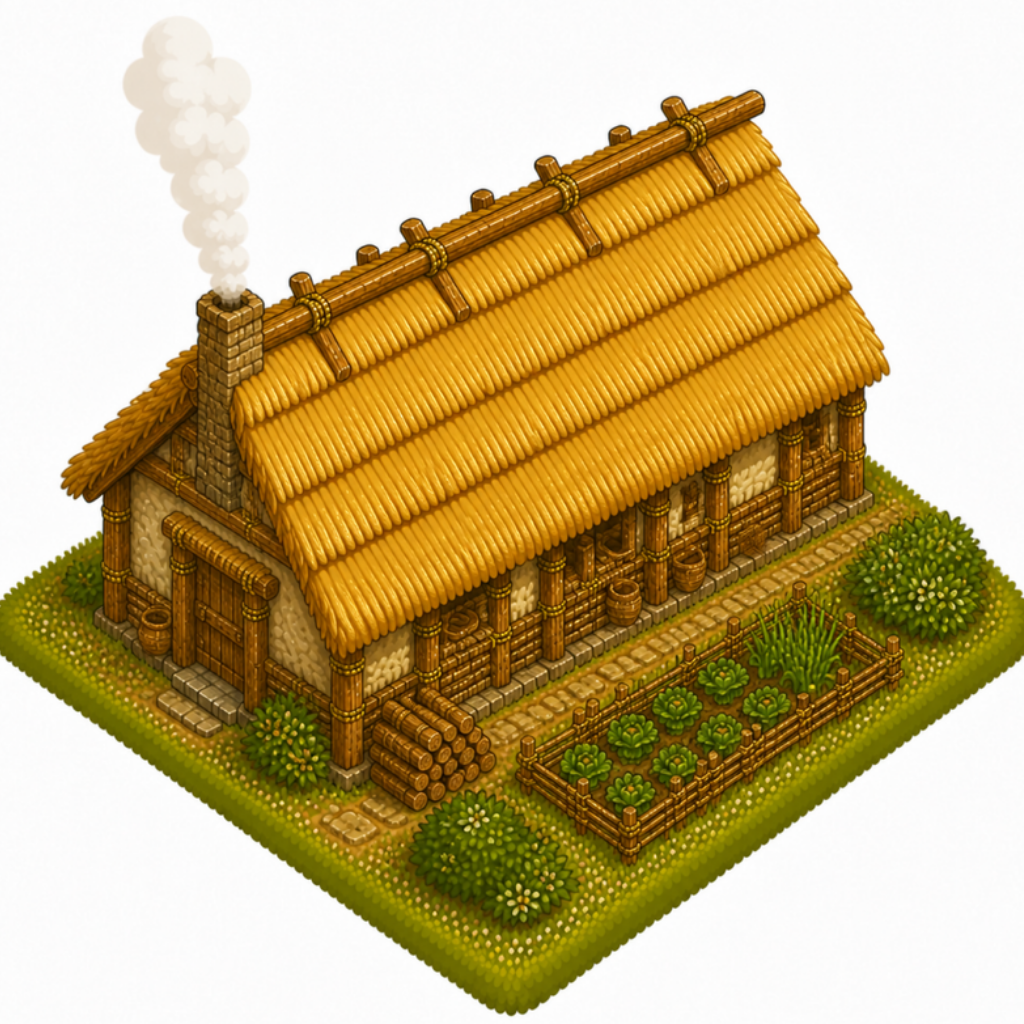
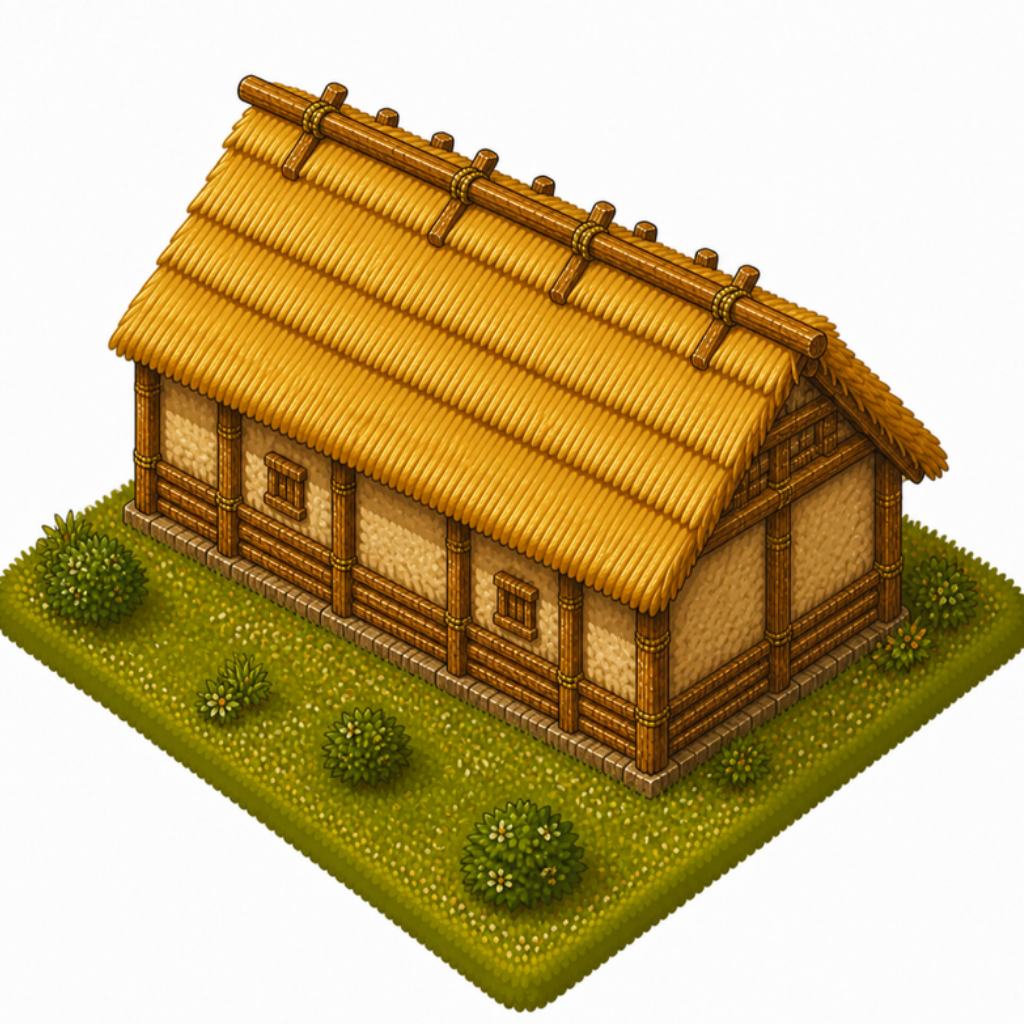
Epochia 75: echte Rückseiten für Sammlerin und Langhaus, Wunderwerk-Fragen entschieden
Claude-Session: https://claude.ai/code/session_01W1n1hiLKjnig7o8w32eGHP

diff --git a/neu/js/zeichnen.js b/neu/js/zeichnen.js
@@ -1324,7 +1324,7 @@ const EFFECTS = {
   '1-mammutjaegerlager-r2': [{ u: 0.56, v: 0.20, feuer: 0.7, rauch: 0.6, rv: 0.15 }],
   '1-ahnenplatz-r2':        [{ u: 0.50, v: 0.33, feuer: 0.7, rauch: 0.6, rv: 0.27 }],
   '1-steinkreis-r2':        [{ u: 0.50, v: 0.38, feuer: 0.9, rauch: 0.7, rv: 0.33 }],
-  '1-langhaus-r2':          [{ u: 0.22, v: 0.28, feuer: 0, rauch: 1.0 }],
+  '1-langhaus-r2':          [{ u: 0.60, v: 0.13, feuer: 0, rauch: 1.0 }],
   '1-toepferei-r2':         [{ u: 0.29, v: 0.44, feuer: 0, rauch: 1.1 }],
 };
 

diff --git a/neu/index.html b/neu/index.html
@@ -3,7 +3,7 @@
 <head>
   <meta charset="UTF-8">
   <meta name="viewport" content="width=device-width, initial-scale=1, maximum-scale=1, user-scalable=no, viewport-fit=cover">
-  <meta name="app-version" content="74">
+  <meta name="app-version" content="75">
   <meta name="theme-color" content="#3d7a2a">
   <meta name="color-scheme" content="only light">
   <meta name="apple-mobile-web-app-capable" content="yes">

diff --git a/neu/js/daten.js b/neu/js/daten.js
@@ -2,7 +2,7 @@
 // Epochia – alle Spieldaten (Zahlen zum Feinjustieren stehen hier oben, die Logik liest nur daraus).
 // Pläne: docs/konzept-neu.md und docs/epoche-1-steinzeit.md
 
-const APP_VERSION = 74;
+const APP_VERSION = 75;
 
 const CONFIG = {
   mapSize: 512,           // Felder je Seite, zentral änderbar (Vielfaches von 16; 64 bis Version 21, 128 bis Version 54 – alte Karten liegen in der Mitte)

diff --git a/neu/service-worker.js b/neu/service-worker.js
@@ -1,6 +1,6 @@
 // Epochia – offline spielen. Bei Änderungen die Versionsnummer erhöhen (gleiche Nummer wie
 // APP_VERSION in js/daten.js und <meta name="app-version"> in index.html).
-const CACHE = 'v74';
+const CACHE = 'v75';
 const ASSETS = [
   './',
   'index.html',

diff --git a/docs/konzept-wunderwerke.md b/docs/konzept-wunderwerke.md
@@ -1,6 +1,6 @@
 # Epochia – Wunderwerke (Entwurf)
 
-Entwurf von Claude, 2026-11-01 – **zum Besprechen, noch nicht gebaut**. Gehört zu `docs/konzept-neu.md`.
+Entwurf von Claude, 2026-11-01 – **am 2026-11-03 von Emin entschieden (Abschnitt 5), noch nicht gebaut**. Gehört zu `docs/konzept-neu.md`.
 Alle Zahlen sind Startwerte; feinjustiert wird nach dem Test am Handy und mit dem Bot.
 
 Zeichen: ✅ entschieden · ❓ offene Frage an Emin · 💡 Vorschlag
@@ -245,21 +245,23 @@ Jede spätere Epoche: dann nur noch Daten, Texte und Bilder (mittel), weil die T
 
 ---
 
-## 5 · Offene Fragen an Emin
+## 5 · Entscheidungen von Emin (2026-11-03)
 
-1. ❓ **Wie viele Wunderwerke je Epoche?** 💡 Eins je Epoche; in der Steinzeit zwei (Höhle + Steinkreis), weil sie drei Stufen hat und die längste Lernzeit ist.
-2. ❓ **Soll der heutige Steinkreis zum Wunderwerk werden** (in Abschnitten statt einem Bau)? 💡 Ja – ID bleibt, alte Spielstände mit fertigem Steinkreis bekommen ihn als fertiges Wunderwerk.
-3. ❓ **Sind Wunderwerke Pflicht für den Aufbruch?** 💡 Nur das letzte der Epoche (Steinkreis); die Höhle ist freiwillig, lohnt sich aber stark.
-4. ❓ **Gefallen dir die Fundstück-Quellen** (glitzernde Stellen antippen, Jagd, Nacht/Sommer-Momente, Glück, Katastrophen, Tag-7-Truhe)? 💡 Ja, alle – aber jede mit Glücksschutz und Ersatzweg, damit man nie stecken bleibt.
-5. ❓ **Zeitdruck?** 💡 Nein: Fundstellen bleiben liegen, bis man sie antippt (höchstens 3 gleichzeitig), nichts läuft ab.
-6. ❓ **Was passiert offline?** 💡 Bauabschnitte laufen weiter; der Stamm legt offline höchstens 1–2 Fundstücke in einen Fundkorb.
-7. ❓ **Doppelte Fundstücke?** 💡 Beim Ältesten tauschen: 3 doppelte → 1 Stück nach Wahl.
-8. ❓ **Wo steht das Wunderwerk?** 💡 Man wählt den Platz selbst (wie beim Bauen), es gibt nur einen Hinweis („am besten an Felsen“). Für die Höhle: muss an Felsen stehen (wie der Fischer am Wasser).
-9. ❓ **Welche Belohnung ist dir am wichtigsten?** 💡 Mischung: dauerhafter Bonus + Fest einmal im Jahr + großes eigenes Bild + Seite im Album.
-10. ❓ **Wie lang sollen die Texte des Ältesten sein?** 💡 1–2 kurze Sätze je Kapitel, manchmal ein „Wusstest du?“ mit echtem Geschichtswissen.
-11. ❓ **Sammelalbum: alle Epochen schon sichtbar (grau)?** 💡 Ja, wie im Forschungsbaum – man sieht, was später kommt.
-12. ❓ **Größe der Wunderwerke?** 💡 Steinzeit 4×4 (wie der Steinkreis heute); ab der Antike 5×5, damit sie wirklich herausragen.
-13. ❓ **Bilder je Bauabschnitt?** 💡 3 Bilder je Wunderwerk (Gerüst, halb fertig, fertig) – nicht 4, damit es nicht zu viele werden.
-14. ❓ **Bronzezeit: Fürstenhügel oder Himmelsscheiben-Halle als Wunderwerk?** 💡 Die Halle der Himmelsscheibe (fröhlicher, und das Zusammensetzen der Scheibe aus 5 Teilen macht Spaß); der Fürstenhügel bleibt ein normales Wahrzeichen.
-15. ❓ **Mittelalter: Gotteshaus der gewählten Religion?** 💡 Ja, jede Religion mit eigenem Bild, gleich stark; wer möchte, baut stattdessen das Rathaus mit Kunstuhr.
-16. ❓ **Wann bauen?** 💡 Vor der Bronzezeit, in einer Sitzung mit dir, in den 3 Schritten aus Abschnitt 4 – dann haben alle späteren Epochen die Technik schon.
+Alle Fragen sind beantwortet, jeweils der Vorschlag. Frage 14 und 16 waren veraltet und wurden angepasst gestellt.
+
+1. ✅ **Anzahl:** eins je Epoche, in der Steinzeit zwei (Höhle + Steinkreis).
+2. ✅ **Steinkreis** wird Wunderwerk in Abschnitten; die ID bleibt, ein fertiger Steinkreis zählt als fertiges Wunderwerk.
+3. ✅ **Pflicht** ist nur das letzte Wunderwerk der Epoche (Steinkreis); die Höhle ist freiwillig.
+4. ✅ **Fundquellen:** alle – glitzernde Stellen, Ausflüge und Momente, Glück bei der Arbeit, Katastrophen und Tag-7-Truhe; jede mit Glücksschutz und Ersatzweg.
+5. ✅ **Kein Zeitdruck:** Fundstellen bleiben liegen, höchstens 3 gleichzeitig.
+6. ✅ **Offline:** Bauabschnitte laufen weiter, höchstens 1–2 Fundstücke im Fundkorb.
+7. ✅ **Doppelte:** beim Ältesten 3 gegen 1 Stück nach Wahl.
+8. ✅ **Standort:** selbst wählen, mit Hinweis; die Höhle muss an Felsen stehen.
+9. ✅ **Belohnung:** alles zusammen – dauerhafter Bonus, Fest einmal im Jahr, großes eigenes Bild, Seite im Album.
+10. ✅ **Texte:** 1–2 kurze Sätze je Kapitel, manchmal ein „Wusstest du?“.
+11. ✅ **Album:** alle Epochen sichtbar, noch nicht gefundene Stücke grau mit Fragezeichen.
+12. ✅ **Größe:** 4×4, ab der Antike 5×5.
+13. ✅ **Bilder:** 3 je Wunderwerk (Gerüst, halb fertig, fertig).
+14. ✅ **Bronzezeit:** neu die Halle der Himmelsscheibe; der schon gebaute Fürstenhügel bleibt normales Wahrzeichen.
+15. ✅ **Mittelalter:** Gotteshaus der gewählten Religion, alle gleich stark; wahlweise stattdessen Rathaus mit Kunstuhr.
+16. ✅ **Reihenfolge:** vor der Eisenzeit, in den 3 Schritten aus Abschnitt 4 (Fundstücke + Schatzkiste, Höhle, Steinkreis); Eisenzeit danach, Bilder großteils ab 27.11.

diff --git a/docs/wuensche.md b/docs/wuensche.md
@@ -18,14 +18,15 @@ Stichworte reichen, z. B. „- Farm zeigt falsche Arbeiterzahl nach dem Verschie
 <!-- Hier Veränderungswünsche eintragen -->
 - Gebäude 4× drehen (Emin, 31.10.): alle Rückansichten fertig; noch offen: Winterbilder der Rückansichten von Feuerplatz, Fellmacherin, Steinschläger, Ahnenplatz, Töpferei, Vorratsspeicher (Canva, das Spiel legt bis dahin selbst Schnee drauf). Bei Canva Option `--schnee` beim Einbauen; Prompt ohne „Fenster“.
 
-- Bronzezeit (Emin, 02.11.): alle drei Stufen gebaut, noch ohne Bilder (ab 27.11.). Offen: Erzader, Bronzezeit-Waren in der täglichen Belohnung. Plan: `docs/epoche-2-bronzezeit.md`.
+- Bronzezeit (Emin, 02.11.): alle drei Stufen gebaut, noch ohne Bilder (ab 27.11.). Offen: Erzader. Plan: `docs/epoche-2-bronzezeit.md`.
 
-- Wunderwerke je Zeitalter (Emin, 01.11.): Entwurf `docs/konzept-wunderwerke.md`, wird mit Emin besprochen.
-- Rückseiten Sammlerin und Langhaus neu (Emin, 02.11.): zeigen die Öffnung bzw. den Garten noch vorne. Bilder zwischendurch oder ab 27.11. (Canva), kein Eilfall. Dazu Winterbilder der neuen Rückseiten von Wohnhöhle und Höhlenmaler.
+- Wunderwerke je Zeitalter (Emin, 01.11.): alle Fragen am 03.11. entschieden (`docs/konzept-wunderwerke.md`, Abschnitt 5), noch nicht gebaut; als Erstes Fundstücke + Schatzkiste, vor der Eisenzeit.
+- Winterbilder der neuen Rückseiten von Sammlerin und Langhaus (Canva, das Spiel legt bis dahin selbst Schnee drauf).
 
 ## Erledigt
 
 <!-- Claude verschiebt erledigte Punkte hierher, mit Datum und Version -->
+- 2026-11-03, Epochia Version 75 – Wunsch Emin: echte, geschlossene Rückseiten für Sammlerin und Langhaus (Canva), beim Langhaus steigt der Rauch jetzt aus dem Dach.
 - 2026-11-03, Epochia Version 74 – Wunsch Emin: Warnung, wenn die Einwohner eine Ware schneller verbrauchen, als sie für den Aufbruch zusammenkommt (Forschungsfenster, Zielzeile, einmal vom Ältesten); Ältester nennt nach einer Minute, wo Arbeiter fehlen und welches Gebäude mit vollem Lager man pausieren kann, Einwohner-Fenster listet fehlende Stellen; Jägerlager und Mammutjägerlager 20 % weniger Nahrung (Jungsteinzeit voll 75–77 → 55–65 %, ab Früher Bronzezeit kaum Wirkung, dort füllt der Viehhof).
 - 2026-11-03, Epochia Version 73 – Emins Entscheidungen zur Analyse: Forschungen kosten 50 % mehr Waren, Wünsche ebenso, Lager wächst je Zeitalter (200–700); Ackerbau, Vieh und Ton-Kette (Jungsteinzeit und ihre Weiterentwicklungen) brauchen je 1 Arbeiter mehr (mehr Stellen überall ließ die späte Bronzezeit im Test stocken); Tagesbelohnung wächst mit dem Zeitalter, ein verpasster Tag bricht die Reihe nicht; Bronzeschmied macht 4 Werkzeuge; Händler-Knopf am Rand und größere Blase; „Willkommen zurück“ nennt Hunger und Verluste; 10 Minuten Schonfrist für Glaube; im Einstieg gilt beim Tippen der gezeigte Bauplatz; größere Tippflächen; Warenleiste einzeilig auf sehr kleinen Handys.
 - 2026-11-02, Epochia Version 72 – Wunsch Emin nach der großen Analyse: Forschung vormerken (startet von selbst, auch offline), Belohnungen und Tausch gehen übers Lager hinaus, Händler-Abstand richtig, Schmuck-Bedarf 0,003, Werkstätten lassen Metall liegen; Fehler behoben: Mammut-Auftrag hing, Wünsche hingen, Wunsch-Aufträge verstopften die Liste, leere Karte beim Wechsel der Qualität, falsche Anzeige „leer in …“, schräges Ziehen aus der Bauleiste, Texte, abgeschnittene Kosten.
